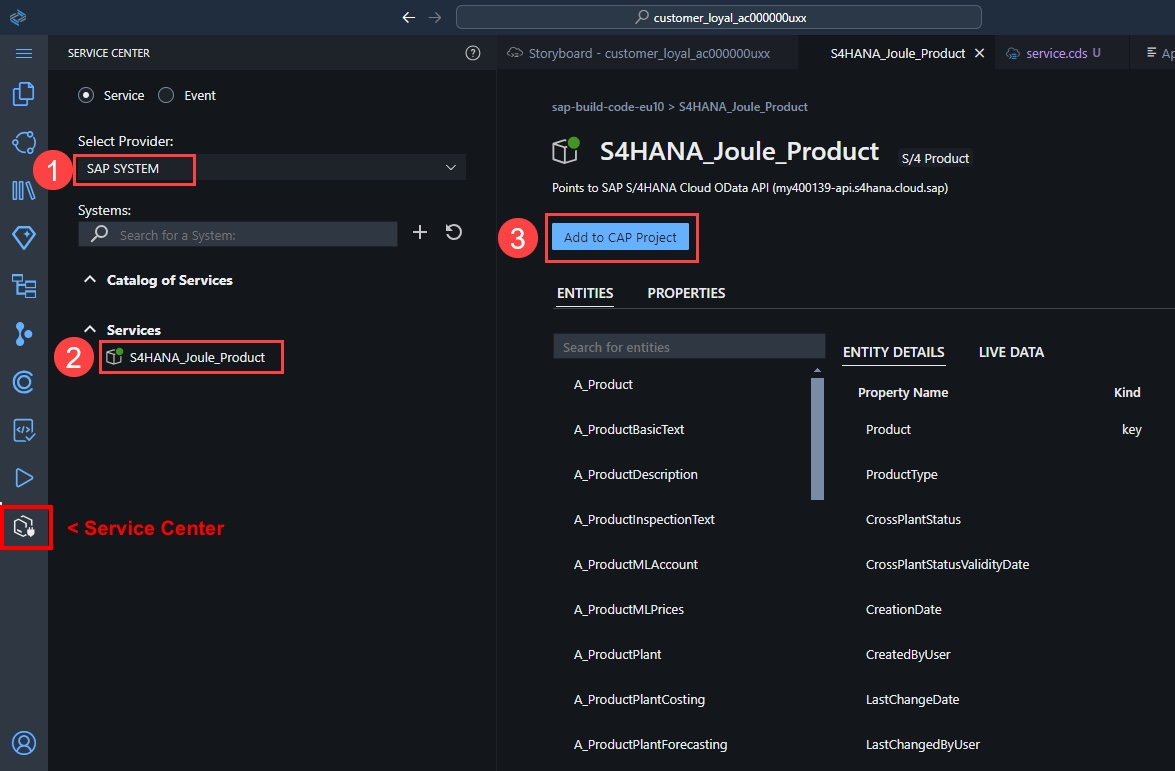
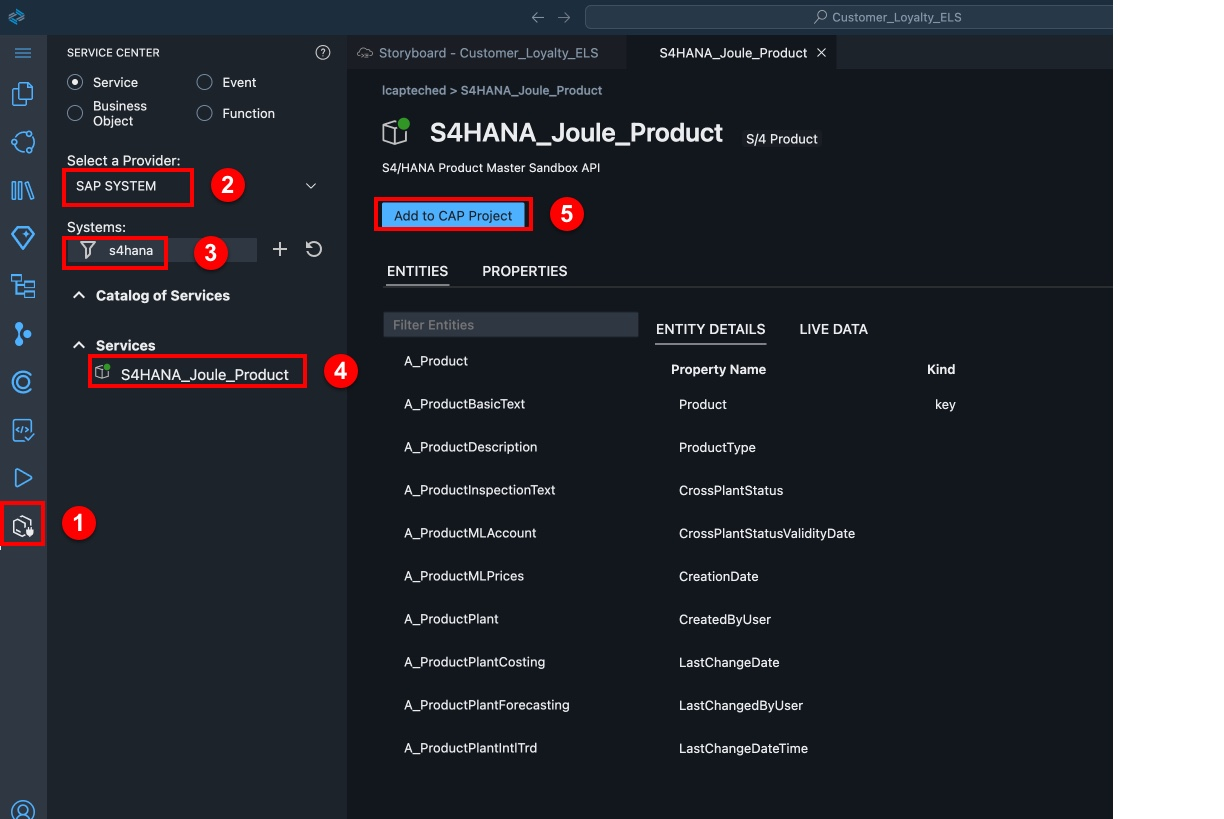
update for ASUG techedlcap

diff --git a/exercises/ex1.5/README.md b/exercises/ex1.5/README.md
@@ -10,7 +10,15 @@ We'll connect to the S/4 Product API through the Service Center.
 1.  In Service Center go to SAP System and find the BTP
     destination S4HANA_Joule_Product (S/4 Product).
 
-2.  Select Add to CAP Project
+    - Click the **Service Center** Icon on the tool bar on the left
+
+    - Select **SAP System**
+
+    - Enter **S4HANA** to filter the systems
+
+    - Select **S4HANA_Joule_Product**. The service definition will open.
+
+    - Select **Add to CAP Project**
 
 <img src="images/image1.jpg" style="width:6.5in;height:4.26528in" />
 
@@ -20,7 +28,9 @@ Note: It may take a short time to update!
 
 <img src="images/image2.png" style="width:6.5in;height:2.29097in" />
 
-4.  Go to service.cds tab and Add Entity
+4.  We want to expose this entity through our service interface. 
+
+    - Go to service.cds tab and Add Entity (select a service and Open Graphic Modeler if it is not open)
 
     - You can drop the new entity anywhere
 

diff --git a/exercises/ex1.4/README.md b/exercises/ex1.4/README.md
@@ -127,9 +127,4 @@ style="width:6.5in;height:3.49028in" />
 <img src="images/image12.png"
 style="width:6.5in;height:3.78264in" />
 
-10. Go back to Storyboard and open Service Center.
-
-<img src="images/image13.png"
-style="width:6.5in;height:2.86597in" />
-
 ## [Next Lesson ⎘](../ex1.5/)
